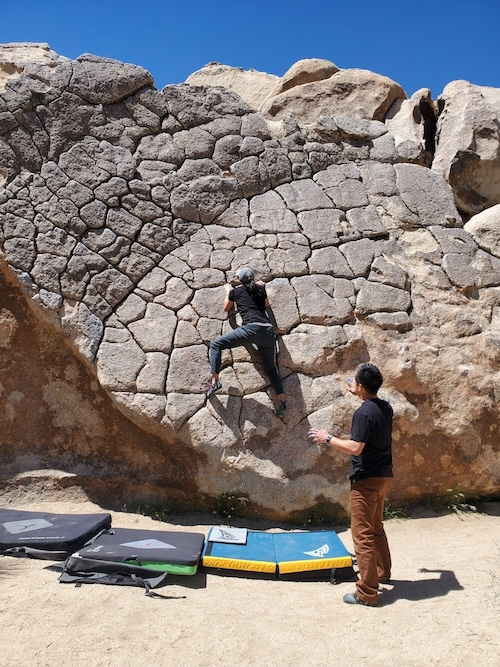
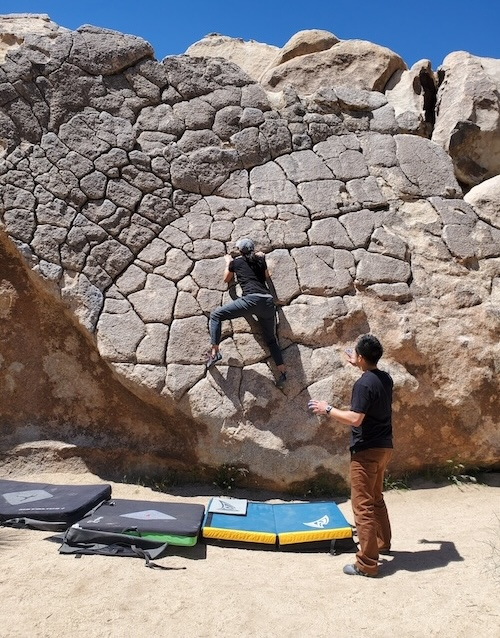
design: sharpen corners site-wide for Unigrid brochure aesthetic
Zero all border-radius variables. Flap gets a 50% right-edge curve (ticket-stub shape) with white translucent front face. Bottom bar spans full card width with em-based padding so it stays proportional at all sizes.

diff --git a/css/style.css b/css/style.css
@@ -32,10 +32,10 @@
   --spacing-3xl: 40px;
 
   /* Border Radius */
-  --radius-sm: 4px;
-  --radius-md: 8px;
-  --radius-lg: 12px;
-  --radius-full: 50%;
+  --radius-sm: 0;
+  --radius-md: 0;
+  --radius-lg: 0;
+  --radius-full: 0;
 
   /* Shadows - Brown-tinted with directional lighting from top-left */
   --shadow-sm: 1px 3px 8px rgba(0, 0, 0, 0.1);
@@ -508,7 +508,7 @@ image.place.visited {
   height: 100%;
   width: calc(100% / 2.5);
   z-index: 2;
-  border-radius: var(--radius-md) 0 0 var(--radius-md);
+  border-radius: 0 50% 50% 0;
   transform-origin: left center;
   transform-style: preserve-3d;
   transition: transform var(--transition-base) 0.3s, box-shadow var(--transition-base);
@@ -519,8 +519,8 @@ image.place.visited {
   content: '';
   position: absolute;
   inset: 0;
-  background: rgba(248, 244, 238, 0.85);
-  border-radius: var(--radius-md) 0 0 var(--radius-md);
+  background: rgba(255, 255, 255, 0.85);
+  border-radius: 0 50% 50% 0;
   backface-visibility: hidden;
   transform: translateZ(0);
 }
@@ -530,7 +530,7 @@ image.place.visited {
   position: absolute;
   inset: 0;
   background-color: #D4C9A8;
-  border-radius: 0 var(--radius-md) var(--radius-md) 0;
+  border-radius: 50% 0 0 50%;
   transform: rotateY(180deg) translateZ(0);
   backface-visibility: hidden;
 }
@@ -570,10 +570,10 @@ image.place.visited {
 .visit-card__content {
   position: absolute;
   bottom: 0;
-  left: calc(100% / 2.5);
+  left: 0;
   right: 0;
-  padding: 6px 8px;
-  background: linear-gradient(to right, transparent 25%, #000 50%);
+  padding: 0.4em 0.6em;
+  background: linear-gradient(to right, transparent 40%, #000 60%);
   display: flex;
   flex-direction: column;
   gap: 1px;
